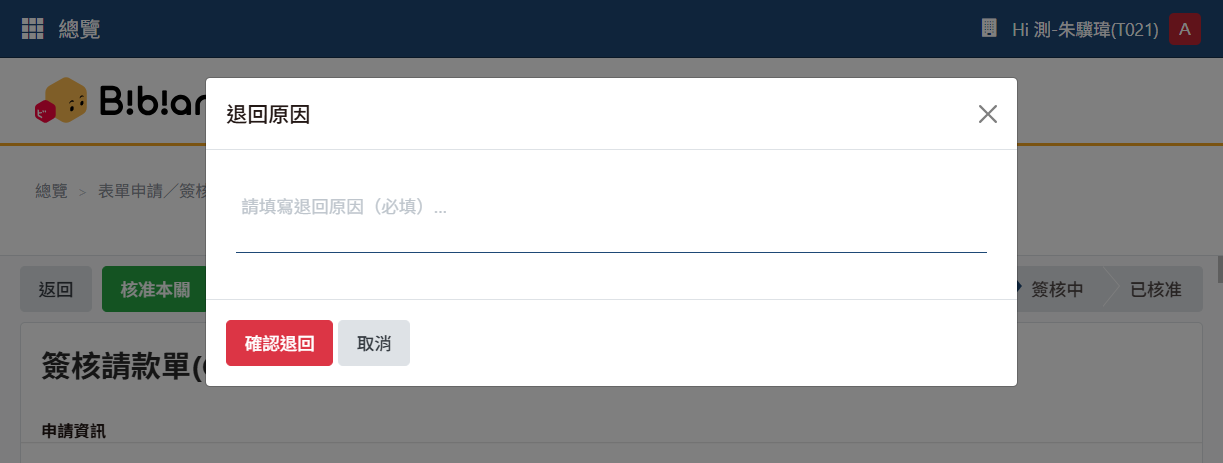
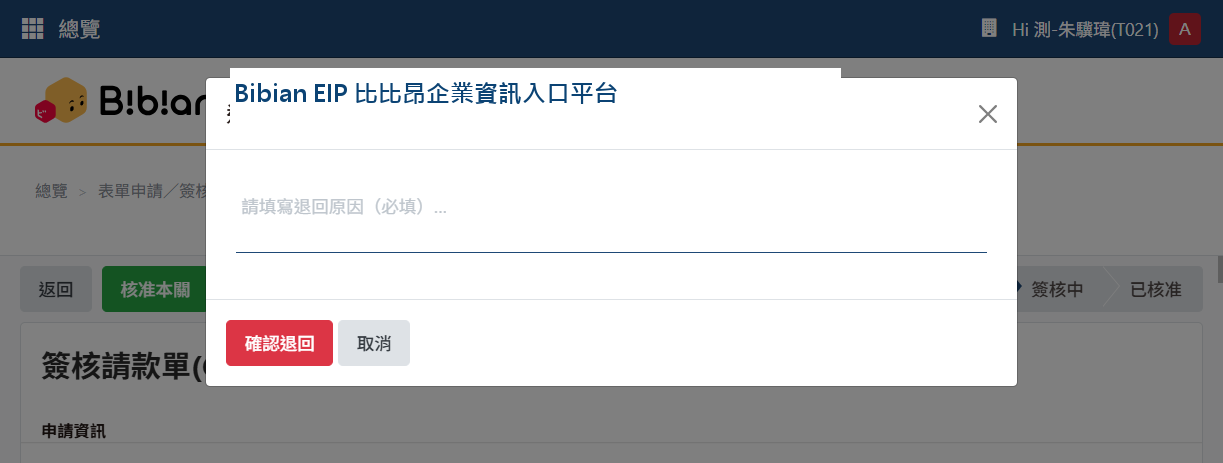
更新網站名稱

Changed region(s): [[0.1864, 0.121, 0.6836, 0.2721]]

diff --git a/Presentation/index.html b/Presentation/index.html
@@ -30,18 +30,17 @@
 <main class="deck" id="deck">
   <section class="slide dark active">
     <div class="brand"><span class="brandmark">B!</span> Bibian EIP</div>
-    <div class="hero"><span class="eyebrow">比比昂企業內部管理系統（Bibian EIP）</span><h1 class="title">Phase 1－CBS 請款單簽核流程</h1><p class="subtitle">讓申請、主管簽核與財務複核，在同一條流程上透明推進</p><div class="accent-line"></div></div>
-    <div class="footer"><span>網家跨境服務股份有限公司</span><span>2026 年 9 月</span></div>
+    <div class="hero"><span class="eyebrow">Bibian EIP 比比昂企業資訊入口平台</span><h1 class="title">Phase 1－CBS 請款單簽核流程</h1><p class="subtitle" style="color:#fff;font-weight:800">將既有紙本請款流程，轉為線上簽核</p><p class="subtitle" style="font-size:clamp(.95rem,1.35vw,1.2rem);margin-top:.35rem">延續既有核決規則，讓申請資料集中可控，並完整保留每一筆簽核與退回歷程。</p><div class="scope"><div>線上填單</div><div>依規則簽核</div><div>財務複核</div><div>通知與完整歷程</div></div><p style="position:relative;z-index:2;color:#a9bed9;margin-top:1.1rem">本階段以流程電子化、資料管理及歷程追溯為主，介面以支援清楚操作為原則。</p></div>
   </section>
 
   <section class="slide">
-    <span class="eyebrow">PROCESS OVERVIEW</span><h2>CBS 請款單從申請到核准的完整流程</h2><p class="lead">串接申請、主管簽核、財務複核與核准後作業。</p>
+    <span class="eyebrow">PHASE 1 SCOPE</span><h2>從建立申請到完成核准</h2><p class="lead">本階段涵蓋線上填單、主管簽核、財務複核、退回重送、通知與完整歷程；核准後仍依財務規定列印並繳交單據正本。</p>
     <div class="process"><div class="step"><span class="num">1</span><strong>建立申請</strong><small>填寫基本資料、明細與附件</small></div><div class="step"><span class="num">2</span><strong>送出簽核</strong><small>產生單號並通知下一關</small></div><div class="step"><span class="num">3</span><strong>主管審核</strong><small>查看資料、核准或退回</small></div><div class="step"><span class="num">4</span><strong>財務複核</strong><small>進行最後資料審查</small></div><div class="step"><span class="num">5</span><strong>修正重送</strong><small>依退回類型回到正確關卡</small></div><div class="step"><span class="num">6</span><strong>已核准</strong><small>列印請款單，備妥單據與附件正本</small></div></div>
     <div class="footer"><span>CBS 請款單簽核流程</span><span>02</span></div>
   </section>
 
   <section class="slide">
-    <span class="eyebrow">ACCESS REQUIREMENT</span><div class="vpn-grid"><div class="vpn-copy"><h2>使用系統前，需先連線公司</h2><h3>透過 NetBird 進入內部系統環境</h3><p>開啟 NetBird 並確認連線狀態顯示「Connected」後，再使用瀏覽器進入比比昂企業內部管理系統。</p><div class="vpn-steps"><span>1｜開啟 NetBird</span><b>→</b><span>2｜確認 Connected</span><b>→</b><span>3｜開啟系統</span></div></div><div class="vpn-shot"><img src="image/vpn_connection.png" alt="NetBird VPN 已連線畫面"></div></div>
+    <span class="eyebrow">ACCESS REQUIREMENT</span><div class="vpn-grid"><div class="vpn-copy"><h2>使用系統前，請先連線 NetBird</h2><h3>無論在公司或外部環境，皆須透過 VPN 安全進入系統</h3><p>開啟 NetBird 並確認連線狀態顯示「Connected」後，再使用瀏覽器進入 Bibian EIP 比比昂企業資訊入口平台。</p><div class="vpn-steps"><span>1｜開啟 NetBird</span><b>→</b><span>2｜確認 Connected</span><b>→</b><span>3｜開啟 EIP</span></div></div><div class="vpn-shot"><img src="image/vpn_connection.png" alt="NetBird VPN 已連線畫面"></div></div>
     <div class="footer"><span>系統使用前提：連線公司 VPN</span><span>03</span></div>
   </section>
 
